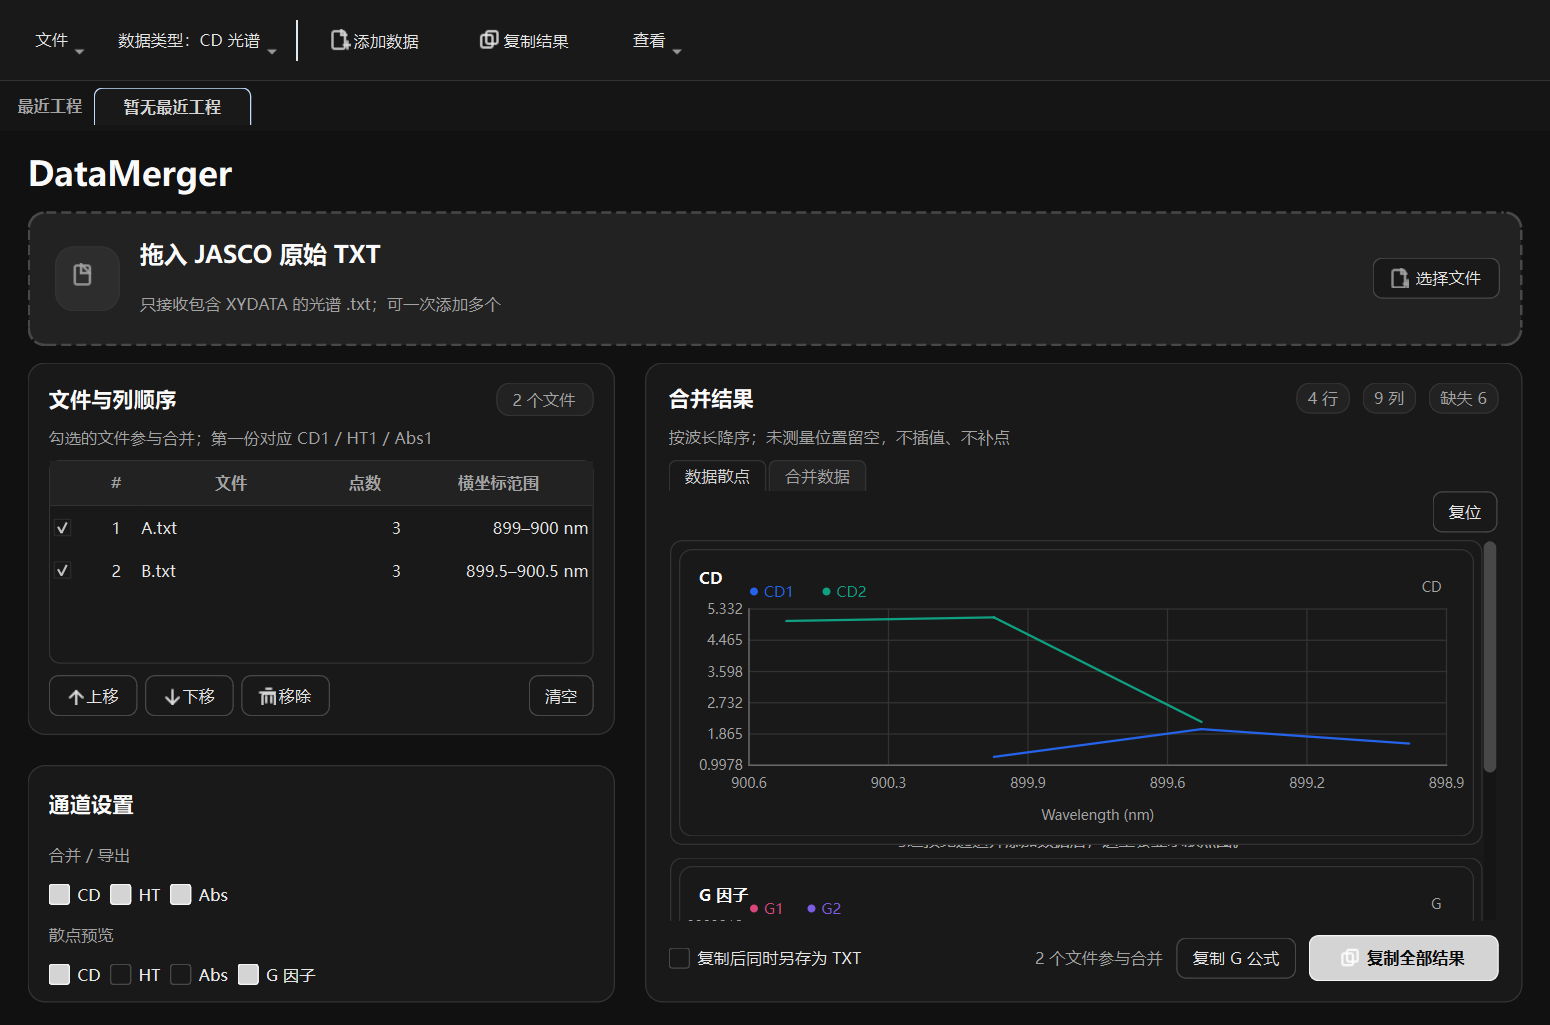
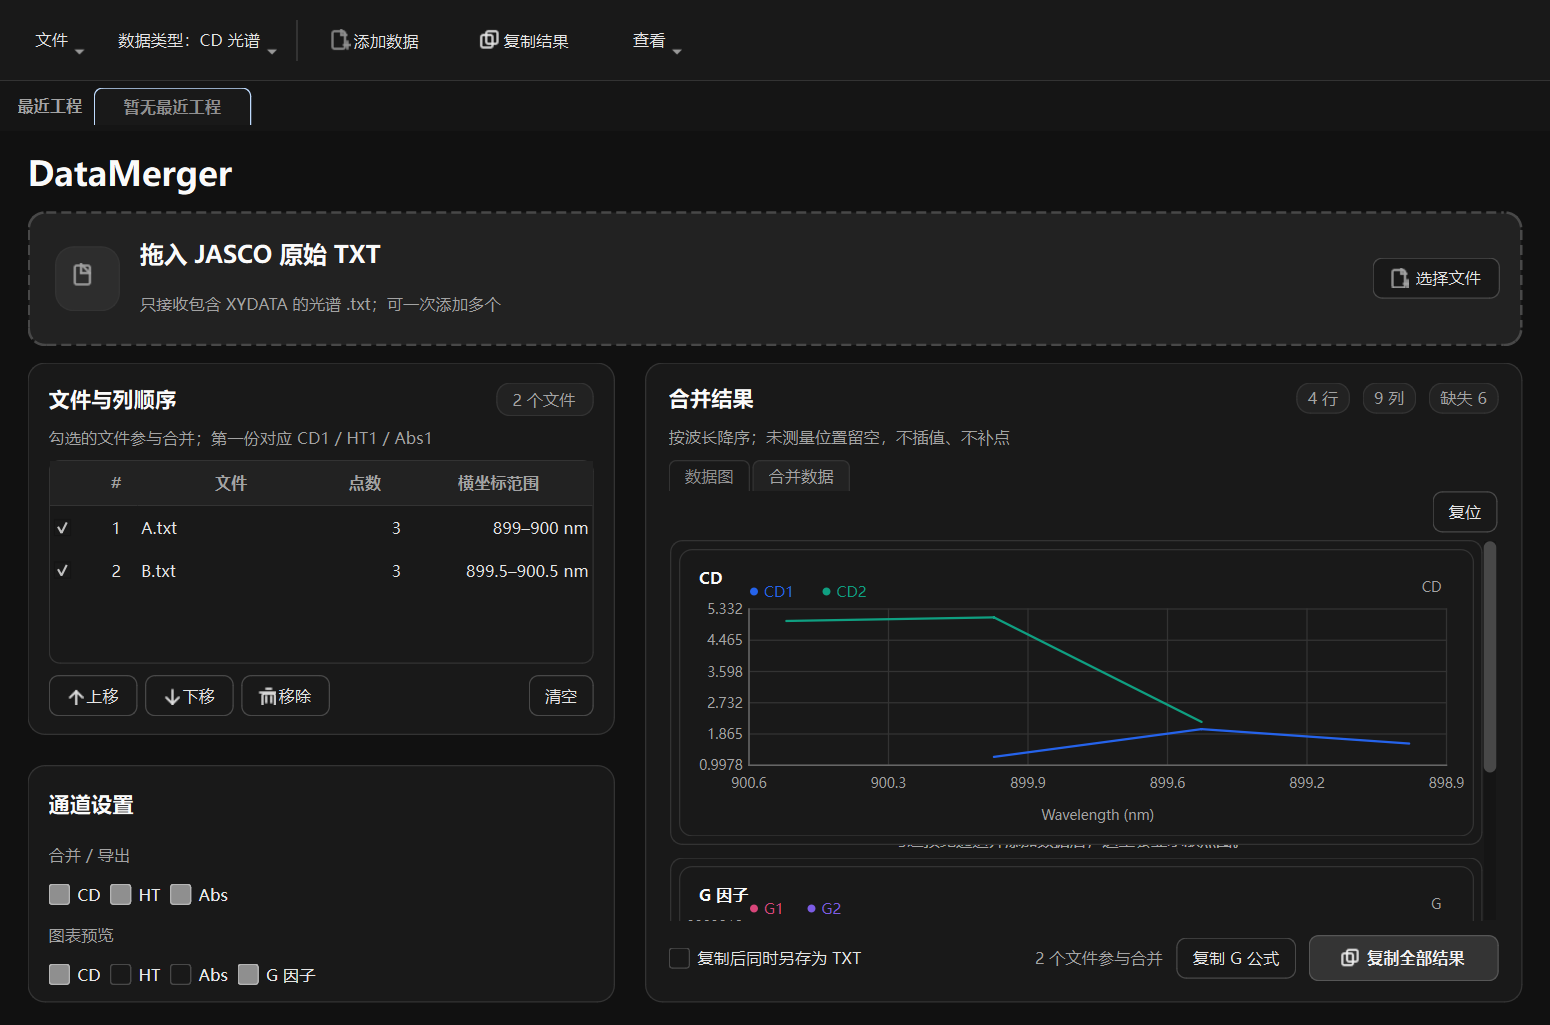
Remove dark theme white edges and soften copy action

diff --git a/theme.py b/theme.py
@@ -38,8 +38,8 @@ DARK_COLORS = {
     "text_heading": "#fafafa",
     "text_muted": "#a3a3a3",
     "text_disabled": "#737373",
-    "accent": "#d4d4d4",
-    "accent_hover": "#f5f5f5",
+    "accent": "#8f8f8f",
+    "accent_hover": "#b5b5b5",
     "accent_soft": "#2d2d2d",
     "selection": "#525252",
     "danger": "#d4d4d4",
@@ -233,6 +233,9 @@ QToolBar#mainToolbar {{
 QToolBar#recentToolbar, QWidget#recentHost {{
     background: {tokens["surface_alt"]};
 }}
+QToolBar::separator {{
+    background: {tokens["border"]};
+}}
 QToolBar QToolButton {{
     color: {tokens["text"]};
 }}
@@ -249,6 +252,10 @@ QTabBar#recentTabs::tab:selected, QTabWidget#previewTabs QTabBar::tab:selected {
     background: {tokens["surface"]};
     color: {tokens["accent"]};
 }}
+QTabBar#recentTabs::tab:hover:!selected, QTabWidget#previewTabs QTabBar::tab:hover:!selected {{
+    background: {tokens["surface_subtle"]};
+    color: {tokens["text"]};
+}}
 QLabel#title, QLabel#dropTitle, QLabel#sectionTitle {{
     color: {tokens["text_heading"]};
 }}
@@ -263,6 +270,9 @@ QLabel#smallBadge, QLabel#pill {{
 QFrame#card, QFrame#plotCard {{
     background: {tokens["surface"]};
     border-color: {tokens["border"]};
+}}
+QSplitter::handle:hover {{
+    background: {tokens["border_strong"]};
 }}
 QFrame#dropZone {{
     background: {tokens["surface_subtle"]};
@@ -291,9 +301,12 @@ QPushButton#outlineButton:hover, QPushButton#smallButton:hover {{
     border-color: {tokens["text_muted"]};
 }}
 QPushButton#primaryButton {{
-    background: {tokens["accent"]};
-    color: #0a0a0a;
-    border-color: {tokens["accent_hover"]};
+    background: #343434;
+    color: #f0f0f0;
+    border-color: #565656;
+}}
+QPushButton#primaryButton:hover {{
+    background: #404040;
 }}
 QPushButton:disabled {{
     background: {tokens["surface_subtle"]};
@@ -321,6 +334,25 @@ QScrollArea#plotPreview, QWidget#plotHost {{
 }}
 QCheckBox {{
     color: {tokens["text"]};
+}}
+QMenu {{
+    background: {tokens["surface"]};
+    color: {tokens["text"]};
+    border-color: {tokens["border"]};
+}}
+QMenu::item {{
+    color: {tokens["text"]};
+    background: transparent;
+}}
+QMenu::item:selected {{
+    background: {tokens["accent_soft"]};
+    color: {tokens["text_heading"]};
+}}
+QMenu::item:disabled {{
+    color: {tokens["text_disabled"]};
+}}
+QMenu::indicator:checked {{
+    background: {tokens["accent"]};
 }}
 """
 

diff --git a/ui_main.py b/ui_main.py
@@ -762,6 +762,8 @@ class MainWindow(QMainWindow):
         self.drop_zone.refresh_theme()
         self.add_files_action.setIcon(_icon("add", accent_color))
         self.copy_action.setIcon(_icon("copy", icon_color))
+        primary_icon = "#f0f0f0" if active_mode() == "dark" else "#253044"
+        self.copy_button.setIcon(_icon("copy", primary_icon, 17))
         self.up_button.setIcon(_icon("up", icon_color, 15))
         self.down_button.setIcon(_icon("down", icon_color, 15))
         self.remove_button.setIcon(_icon("trash", icon_color, 15))
@@ -1687,14 +1689,14 @@ QPushButton#outlineButton:hover, QPushButton#smallButton:hover {
     border-color: #b8c5d5;
 }
 QPushButton#primaryButton {
-    background: #2563eb;
-    color: white;
-    border: 1px solid #1d4ed8;
+    background: #e2e5e9;
+    color: #253044;
+    border: 1px solid #c9ced6;
     padding: 9px 15px;
     font-weight: 600;
 }
 QPushButton#primaryButton:hover {
-    background: #1d4ed8;
+    background: #d5d9df;
 }
 QPushButton:disabled {
     color: #94a3b8;

diff --git a/tests/test_theme.py b/tests/test_theme.py
@@ -77,6 +77,11 @@ class ThemeTests(unittest.TestCase):
         for name, value in colors("dark").items():
             red, green, blue = (int(value[index : index + 2], 16) for index in (1, 3, 5))
             self.assertEqual((red, green, blue), (red, red, red), name)
+        apply_theme(self.app, "", mode="dark")
+        self.assertIn("QToolBar::separator", self.app.styleSheet())
+        self.assertIn("QMenu::item:selected", self.app.styleSheet())
+        self.assertIn("background: #343434", self.app.styleSheet())
+        apply_theme(self.app, "")
 
 
 if __name__ == "__main__":
